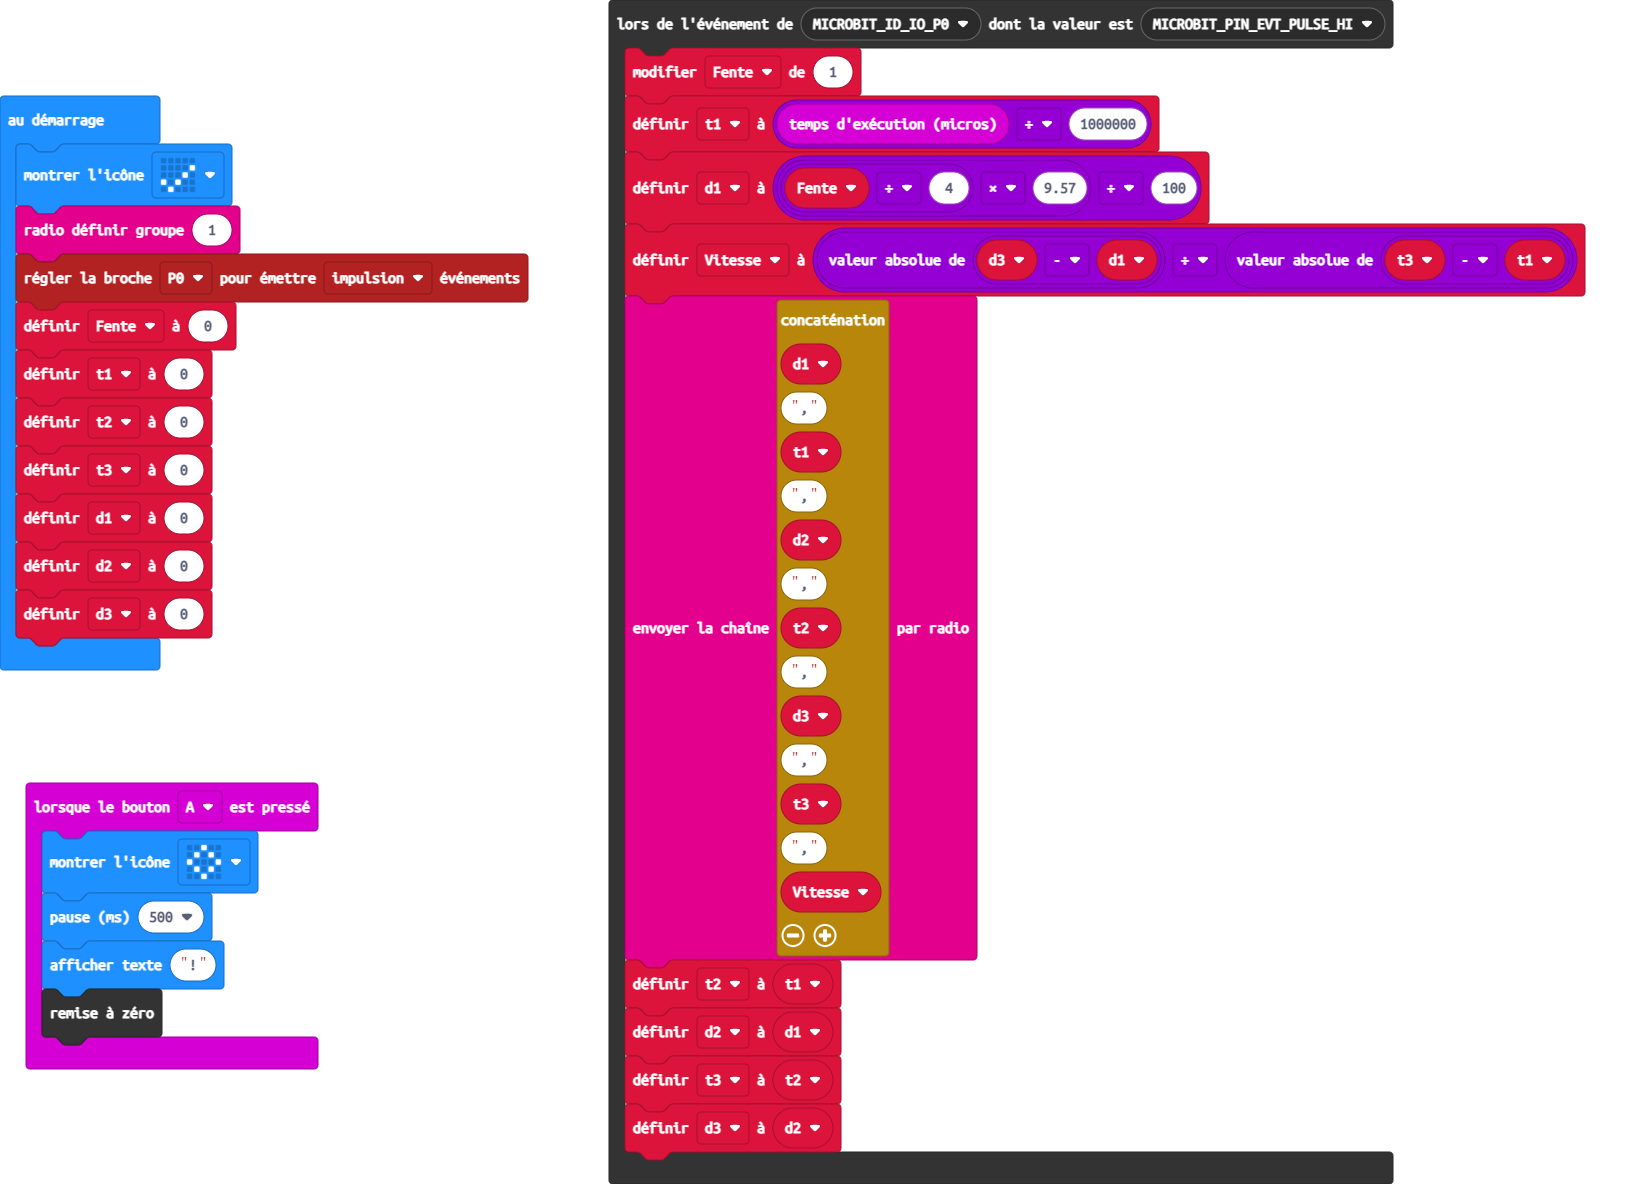
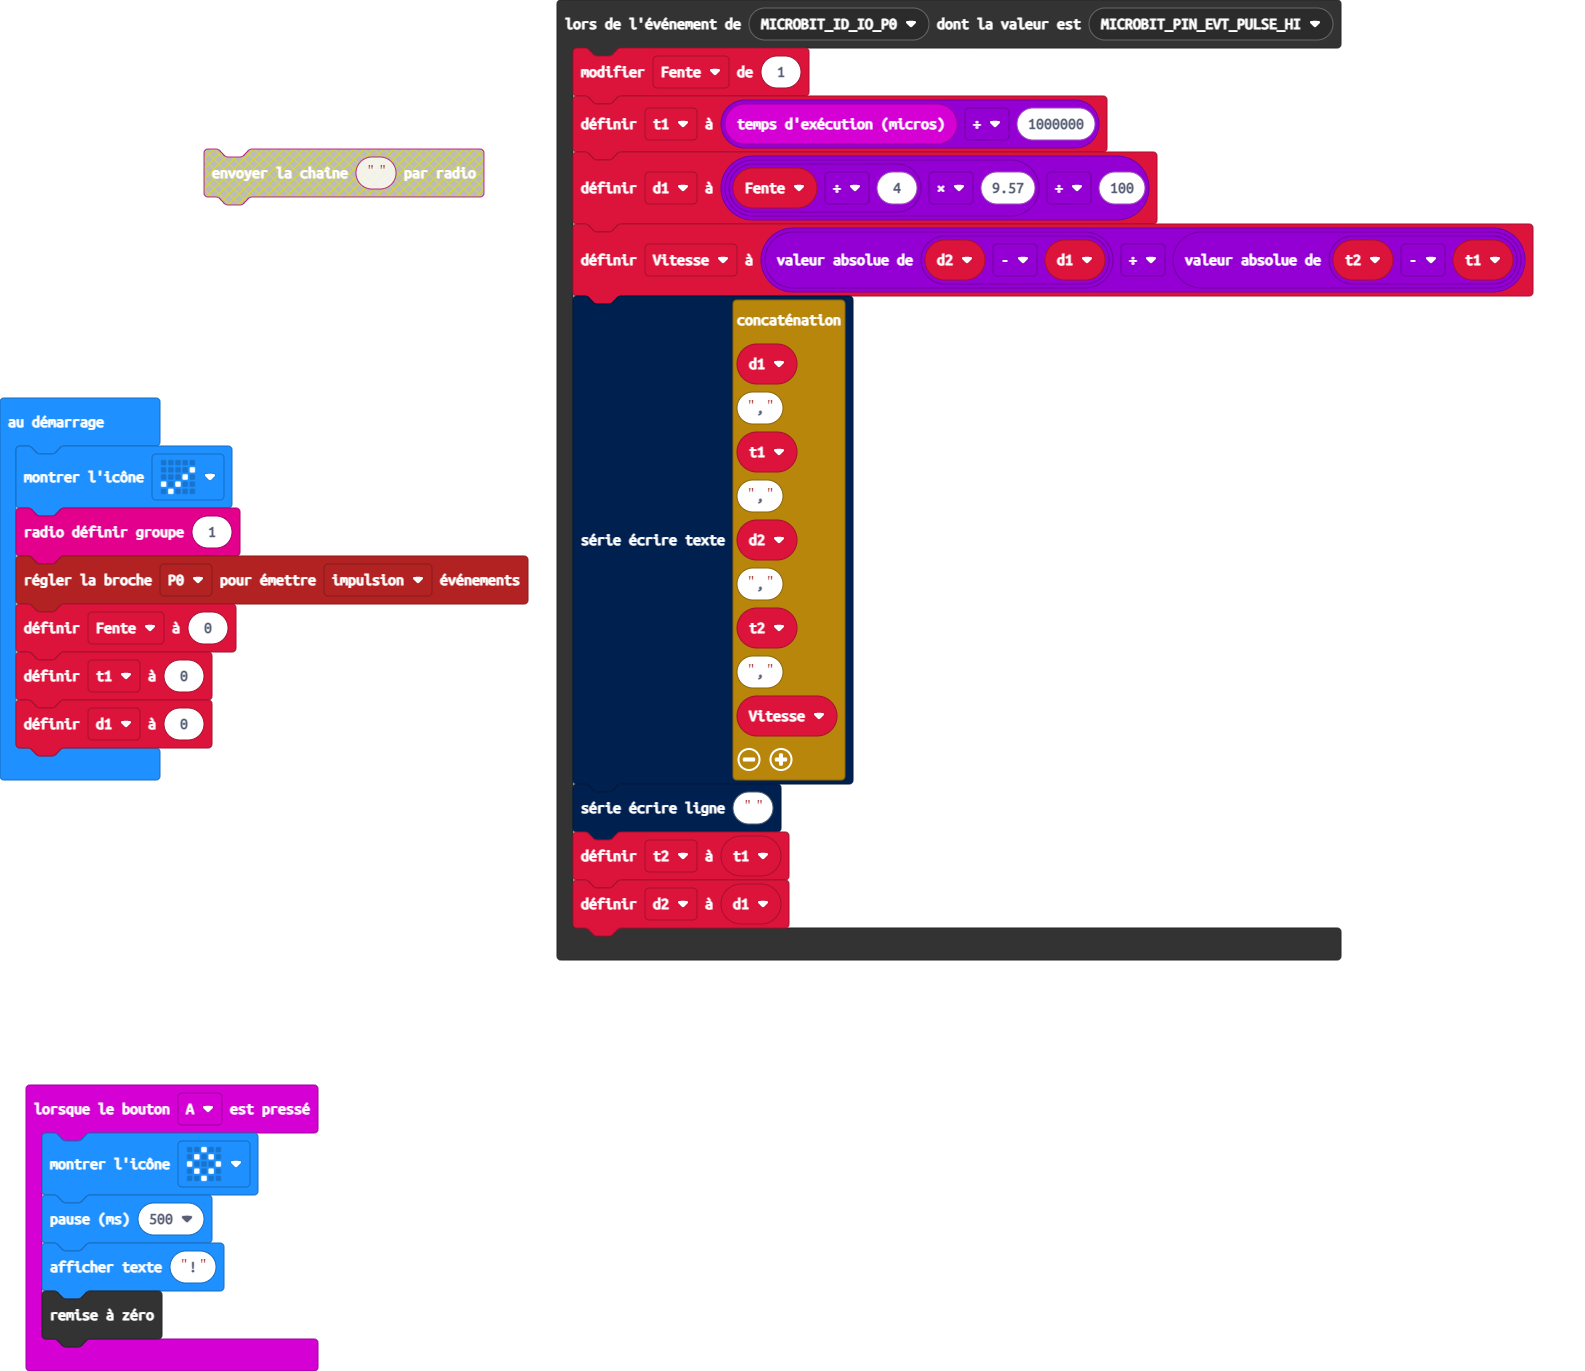
Mise à jour main.blocks, main.ts

diff --git a/main.ts b/main.ts
@@ -2,12 +2,11 @@ control.onEvent(EventBusSource.MICROBIT_ID_IO_P0, EventBusValue.MICROBIT_PIN_EVT
     Fente += 1
     t1 = input.runningTimeMicros() / 1000000
     d1 = Fente / 4 * 9.57 / 100
-    Vitesse = Math.abs(d3 - d1) / Math.abs(t3 - t1)
-    radio.sendString("" + d1 + "," + t1 + "," + d2 + "," + t2 + "," + d3 + "," + t3 + "," + Vitesse)
+    Vitesse = Math.abs(d2 - d1) / Math.abs(t2 - t1)
+    serial.writeString("" + d1 + "," + t1 + "," + d2 + "," + t2 + "," + Vitesse)
+    serial.writeLine("")
     t2 = t1
     d2 = d1
-    t3 = t2
-    d3 = d2
 })
 input.onButtonPressed(Button.A, function () {
     basic.showIcon(IconNames.Diamond)
@@ -15,12 +14,10 @@ input.onButtonPressed(Button.A, function () {
     basic.showString("!")
     control.reset()
 })
-let Vitesse = 0
-let d3 = 0
-let d2 = 0
-let d1 = 0
-let t3 = 0
 let t2 = 0
+let d2 = 0
+let Vitesse = 0
+let d1 = 0
 let t1 = 0
 let Fente = 0
 basic.showIcon(IconNames.Yes)
@@ -28,8 +25,4 @@ radio.setGroup(1)
 pins.setEvents(DigitalPin.P0, PinEventType.Pulse)
 Fente = 0
 t1 = 0
-t2 = 0
-t3 = 0
 d1 = 0
-d2 = 0
-d3 = 0
